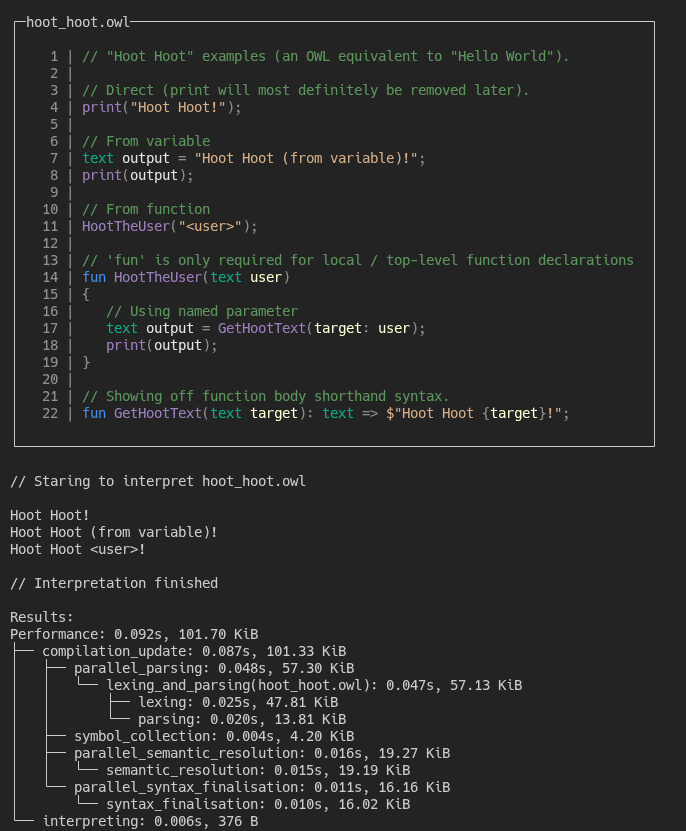
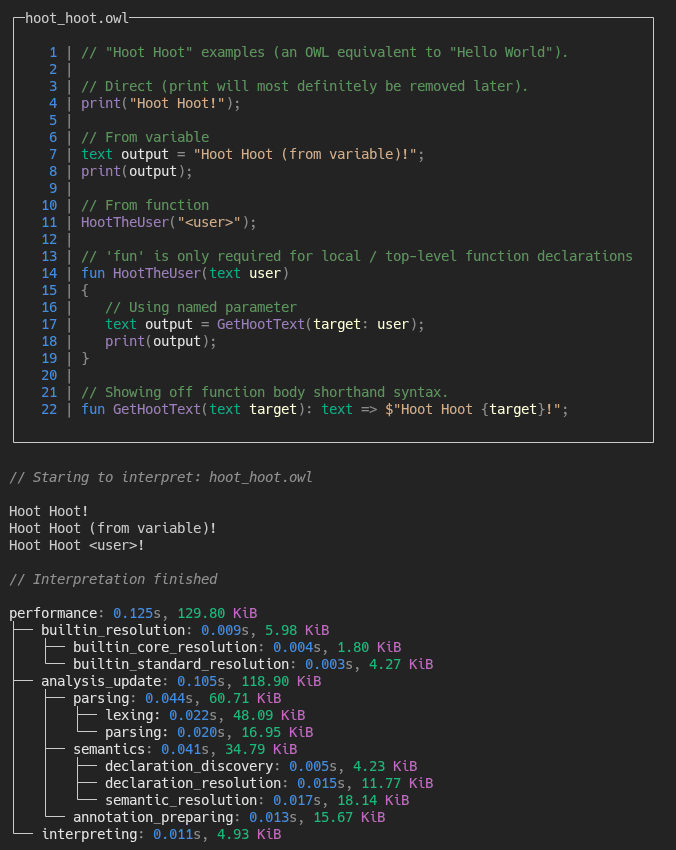
Update readme.

diff --git a/.github/readme.md b/.github/readme.md
@@ -3,32 +3,37 @@
 This repository will eventually contain the overall CLI for the OWL project.
 However right now, it includes the entire compiler.
 
-It can't do much right now, but it can interpret the
-[`hoot_hoot.owl`](../src/examples/hoot_hoot.owl) example.
+## Examples
+
+It can't do much right now, but it can interpret the main example, which is the
+[`hoot_hoot.owl`](../src/examples/hoot_hoot.owl) file.
 
 If you'd like to do so, you can run the following in the root of this repository:
 ```sh
-dotnet run --project src/cli/cli.csproj -- run src/examples/hoot_hoot.owl
+dotnet run --project src/cli -- run src/examples/hoot_hoot.owl
 ```
+This will run the example in debug mode, if you'd like to check the performance
+then you should run it in release mode instead, which you can do by running:
+ ```sh
+dotnet run -c Release --project src/cli -- run src/examples/hoot_hoot.owl
+```
+
 The output won't be much, just the prints from the example source code.
 
-But here's a nicer preview from some debug output:
+But, here's a nicer preview from some debug output:
+
 ![preview](res/preview.png)
 
+## Versions
+
 If you'd like to keep track of the compiler's progress and versions, you can
-do it with the `version` **command** *(not the flag, I can't customise that lol).*
+do it with the `version` **command** *(not the flag, since I can't customise
+the output of that as nicely yet).*
 
 ```sh
-dotnet run --project src/cli/cli.csproj -- version
+dotnet run --project src/cli -- version
 ```
-Which will look something like this:
-```
-Version: 1.0.0
-Branch: main
-Hash: 5fbbf42 (with local changes)
-Date: 22/06/2026 15:27:35 +01:00 (recently)
 
-┌─Message────────────────┐
-│ Add basic run command. │
-└────────────────────────┘
-```
+Which will look something like this:
+
+![version](res/version.png)